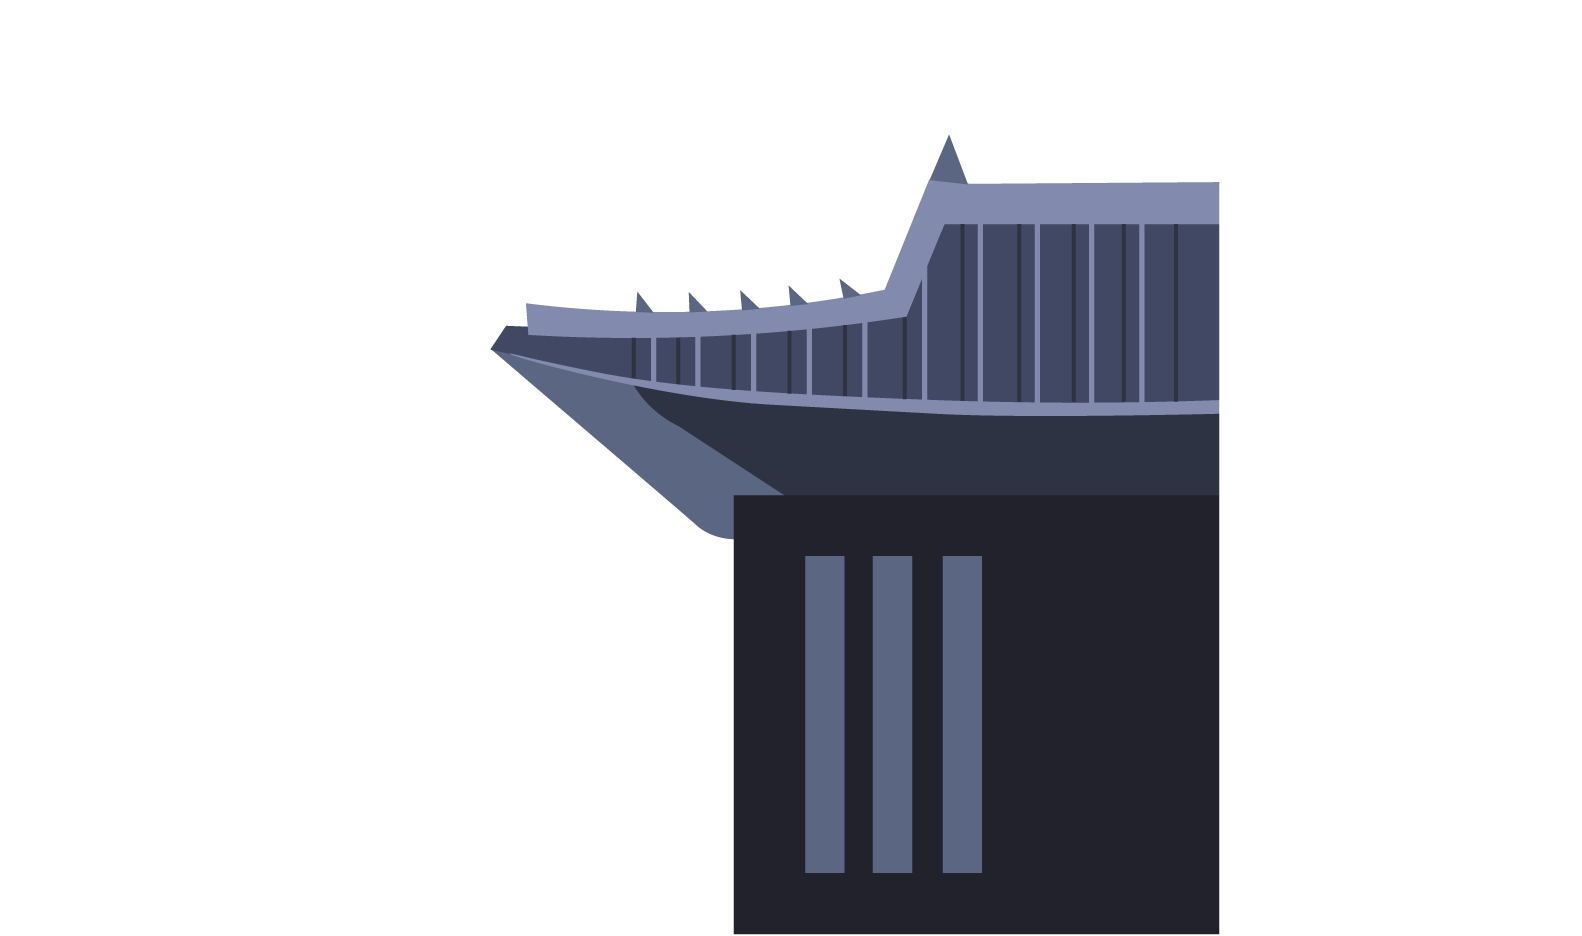
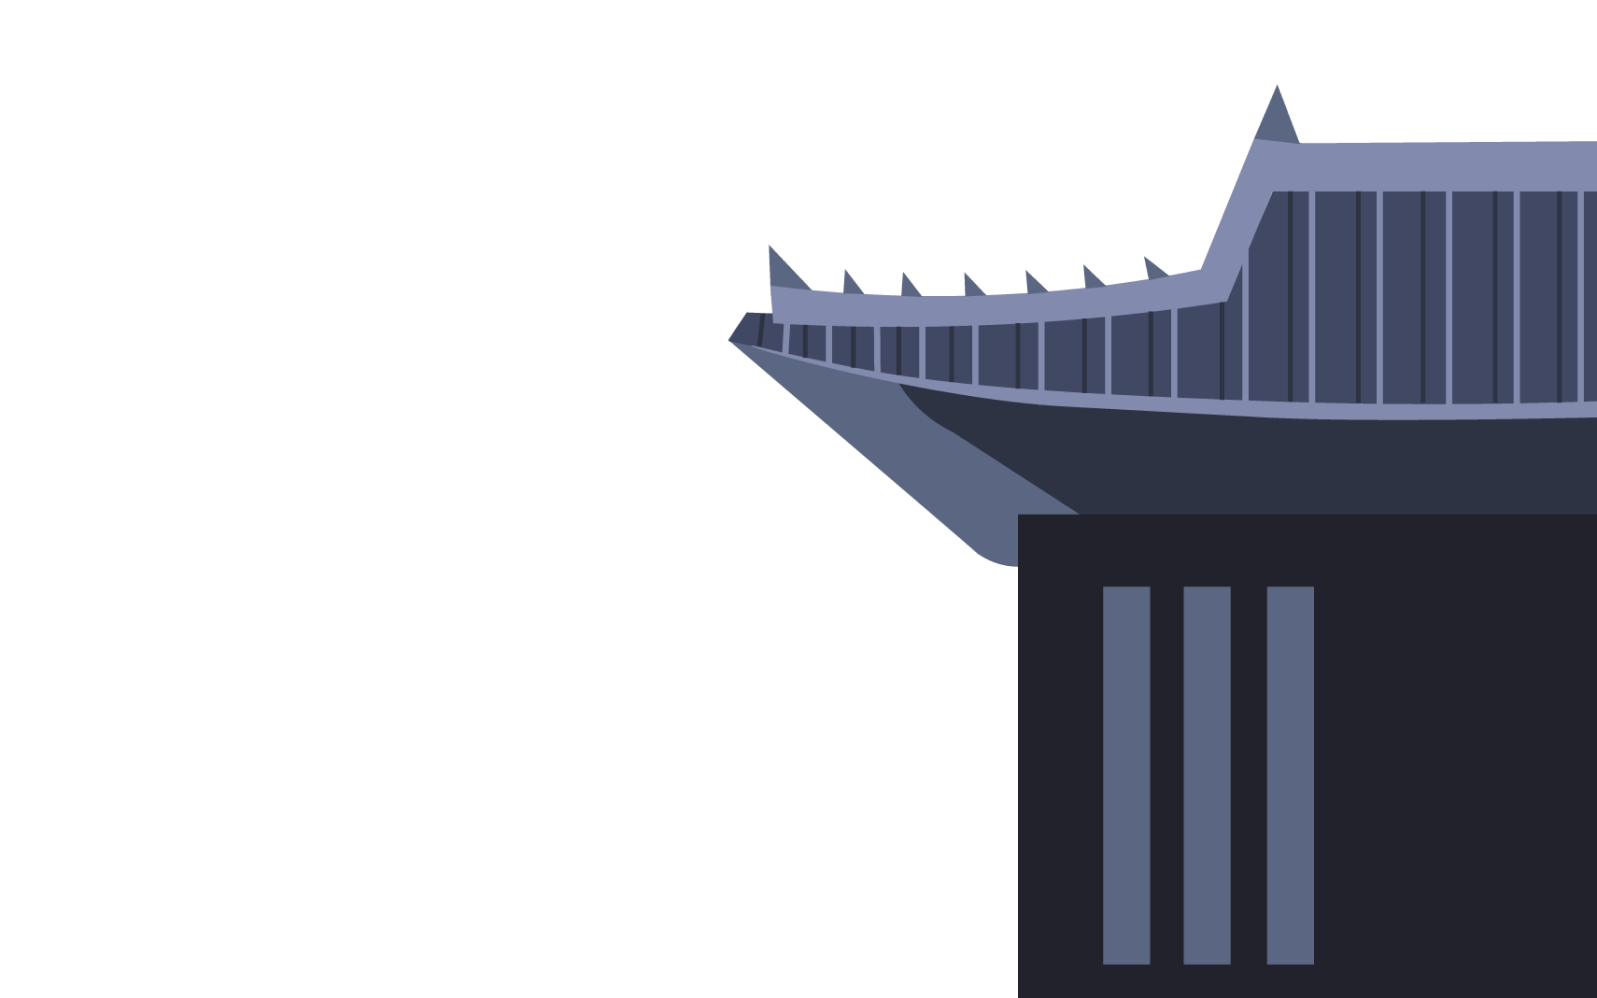
이전 화면 이미지 새로 다운로드&세부 기능 점검

diff --git a/src/song/Second.jsx b/src/song/Second.jsx
@@ -6,13 +6,13 @@ import '../song/second/explain.css'
 export default function NextPage() {
 
   const [backgroundVisible, setBackgroundVisible] = useState(false)
-  const [scrollAction1, setScrollAction1] = useState(false);
   const [imgVisible, setImgVisible] = useState(false); // 이미지 가시성 상태
   const [scrollPosition, setScrollPosition] = useState(0);
   const [explainVisible, setExplainVisible] = useState([false, false, false]); // explain 이미지 가시성 상태
   const [fogOffset, setFogOffset] = useState(0); // fog 이미지의 이동값
   const [fogHidden, setFogHidden] = useState(false); // fog가 사라졌는지 상태
-  const fogMaxOffset = 2000; // fog가 사라지는 기준 (화면에서 벗어나는 시점)
+  const [rightPalaceZoomed, setRightPalaceZoomed] = useState(false); // right-palace 확대 상태
+
 
 
   const birdImages = [
@@ -20,8 +20,11 @@ export default function NextPage() {
     "/images/second/birds/birds2.png",
     "/images/second/birds/birds3.png"
   ];
+  const fogMaxOffset = 2000; // fog가 사라지는 기준 (화면에서 벗어나는 시점)
+
   const [currentBirdImage, setCurrentBirdImage] = useState(birdImages[0]);
   const birdImageIndexRef = useRef(0);
+
 
 
   useEffect(() => {
@@ -63,10 +66,10 @@ export default function NextPage() {
         setExplainVisible([false, false, false]); // 다시 숨김
       }
 
-      // 특정 px에 도달하면 imgVisible 변경 (스크롤에 따라 이미지 등장)
-    if (scrollPosition > 0) {
-      setScrollAction1(true);
-    }
+       // explain 이미지가 모두 펼쳐진 이후에 zoom 적용
+       if (scrollPosition >= 5500 && !rightPalaceZoomed && explainVisible) {
+        setRightPalaceZoomed(true); // right-palace 확대
+      }
 
     };
 
@@ -75,24 +78,17 @@ export default function NextPage() {
     return () => {
       window.removeEventListener("wheel", handleWheel);
     };
-  }, [scrollPosition,fogOffset]);
+  }, [scrollPosition, fogOffset, rightPalaceZoomed]);
 
   useEffect(() => {
     // birds 이미지 교차 애니메이션: 3개의 이미지가 200ms마다 변경
     const birdInterval = setInterval(() => {
       birdImageIndexRef.current = (birdImageIndexRef.current + 1) % birdImages.length;
       setCurrentBirdImage(birdImages[birdImageIndexRef.current]);
-    }, 200); // 200ms마다 이미지 변경
+    }, 500); // 200ms마다 이미지 변경
 
     return () => clearInterval(birdInterval);
   }, []);
-  
-  // 특정 구간에서 비율을 계산하여 애니메이션 진행도를 반환하는 함수
-  const calculateScrollProgress = (start, end) => {
-    if (scrollPosition < start) return 0; // 구간 이전
-    if (scrollPosition > end) return 1;   // 구간 이후
-    return (scrollPosition - start) / (end - start); // 구간 내 비율 계산
-  };
 
   // birds 이미지의 이동 위치를 계산 (300px ~ 350px 사이)
   const birdsProgress = scrollPosition > 50 ? (scrollPosition - 50) / 400 : 0;
@@ -104,7 +100,7 @@ export default function NextPage() {
   return (
     <div className="second-page">
       {/* 고정된 화면에서 배경이 서서히 나타남 */}
-      <div className="content">
+      <div className={`content ${rightPalaceZoomed ? 'zoom-view' : ''}`}>
         <img src="images/second/base.png" alt='Base'/>
         <div className={`background ${backgroundVisible ? 'visible' : ''}`}>
           <img src="images/second/background.png" alt='Background'/>
@@ -148,7 +144,6 @@ export default function NextPage() {
           alt="explain1"
           className={`scroll-img explain1 ${imgVisible ? 'visible' : ''}`}
         />
-
          {/* explain2, explain3, explain4 순차적 등장 */}
          <img
           src="images/second/explain2.png"
@@ -168,6 +163,11 @@ export default function NextPage() {
           className={`scroll-img2 explain4 ${explainVisible[2] ? 'visible' : ''}`}
           style={{ transform: explainTransform(explainVisible[2]) }}
         />
+        
+        {/* 확대된 right-palace 이미지 위에 새로운 이미지 */}
+        {rightPalaceZoomed && (
+          <img src="images/second/new-image.png" alt="New Image" className="new-img" />
+        )}
       </div>
     </div>
   );

diff --git a/src/song/Test1.jsx b/src/song/Test1.jsx
@@ -16,6 +16,8 @@ export default function Test1() {
   const [showAppealOpen, setShowAppealOpen] = useState(false); // Appeal Open 상태 추가
   const [disableInteraction, setDisableInteraction] = useState(false); // 사용자 입력 차단 상태
   const [startZoom, setStartZoom] = useState(false); // New state for zoom effect
+  const [hugeAppeal, setHugeAppeal] = useState(false); // New state for zoom effect
+
 
   const navigate = useNavigate(); // For page navigation
 
@@ -70,9 +72,12 @@ export default function Test1() {
 
   // 클릭 시 애니메이션과 Appeal Open을 처리
   const handleAppealClick = () => {
-    setDisableInteraction(true);
-    setAppealMoving(true);
-    setBlurBackground(true);
+    setHugeAppeal(true);
+    setTimeout(() => {
+      setDisableInteraction(true);
+      setAppealMoving(true);
+      setBlurBackground(true);
+    }, 1000)
 
     setTimeout(() => {
       setShowAppealOpen(true);
@@ -156,7 +161,7 @@ export default function Test1() {
               <div className={`appeal ${appealMoving ? "move-left" : ""}`} onClick={handleAppealClick}>
                 <img src="images/green/appeal.png" 
                 alt="Appeal"
-                className={`appeal-now ${appealMoving ? "rotate" : ""}`}/>
+                className={`appeal-now ${hugeAppeal ? "rotate" : ""}`}/>
               </div>
               <div className={`new-appeal ${showAppealOpen ? "enter" : ""}`}>
                 <img src="images/green/appeal_open.png" alt="Appeal Open"/>

diff --git a/src/song/object/door.css b/src/song/object/door.css
@@ -58,6 +58,7 @@
     z-index: 3;
     transform: translate(-50%, -50%);
   } /* 이미지의 중심이 정확히 중앙에 위치하도록 설정 */
+
   .appeal:hover {
     animation: bounce 0.6s infinite alternate; /* 좌우로 통통 튀는 애니메이션을 hover 시 적용 */
   }
@@ -93,8 +94,8 @@
 
 
 .appeal-now.rotate {
-  transform: rotate(360deg); /* 360도 회전 */
-  transition: transform 3s ease-in-out; /* 부드러운 회전 애니메이션 */
+  transform: scale(1.7);
+  transition: transform 1s ease-in-out; /* 부드러운 회전 애니메이션 */
 }
 
 .appeal_open {

diff --git a/src/song/second/second_imgs.css b/src/song/second/second_imgs.css
@@ -24,6 +24,12 @@
   right: 0px;
 }
 
+.zoom-view {
+  transform: scale(2); /* 2배 확대 */
+  transform-origin: center center; /* 중앙을 기준으로 확대 */
+  transition: transform 2.5s ease-in-out; /* 부드러운 확대 효과 */
+}
+
 .land {
   z-index: 4;
   left: 0px;
